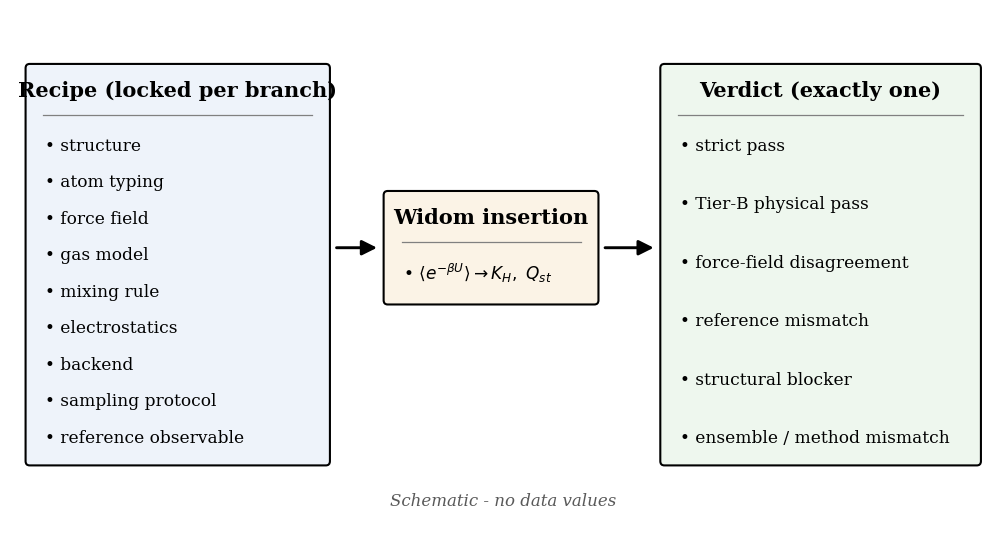
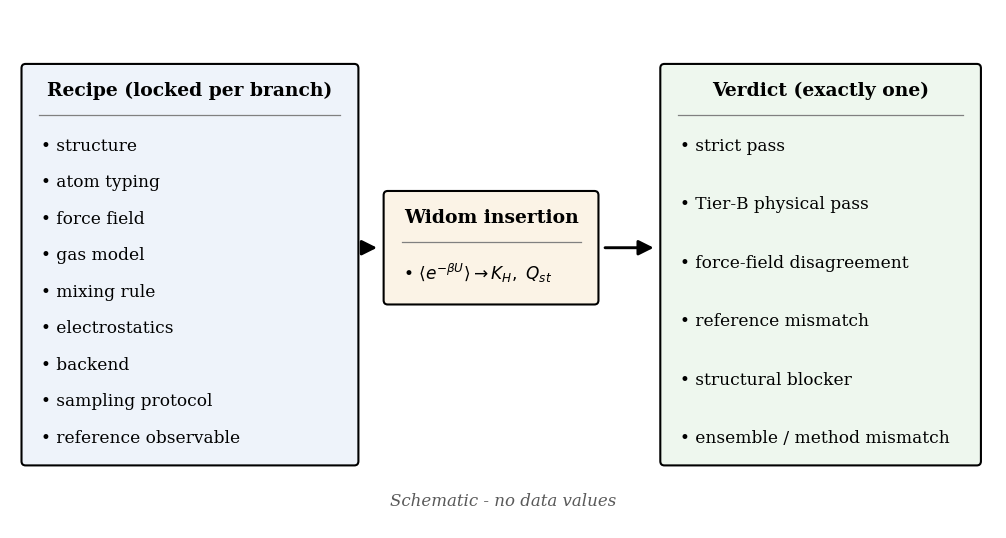
fix: figures no longer split sentences; fix recipe-schematic box overflow

diff --git a/paper/v3_author_written/figures/fig1_recipe_schematic.py b/paper/v3_author_written/figures/fig1_recipe_schematic.py
@@ -31,7 +31,7 @@ def panel(ax, x, y, w, h, title, lines, fc):
                                 boxstyle="round,pad=0.02,rounding_size=0.05",
                                 fc=fc, ec="black", lw=1.0))
     ax.text(x + w / 2, y + h - 0.30, title, ha="center", va="center",
-            fontsize=10, fontweight="bold")
+            fontsize=9, fontweight="bold")
     ax.plot([x + 0.2, x + w - 0.2], [y + h - 0.58, y + h - 0.58],
             color="0.5", lw=0.6)
     top = y + h - 0.95
@@ -48,12 +48,12 @@ def main():
     ax.set_ylim(0, 6)
     ax.axis("off")
 
-    panel(ax, 0.15, 0.7, 3.7, 4.7, "Recipe (locked per branch)", INGREDIENTS, "#eef3fa")
+    panel(ax, 0.1, 0.7, 4.1, 4.7, "Recipe (locked per branch)", INGREDIENTS, "#eef3fa")
     panel(ax, 4.55, 2.6, 2.6, 1.3, "Widom insertion",
           [r"$\langle e^{-\beta U}\rangle \rightarrow K_H,\ Q_{st}$"], "#fbf3e6")
     panel(ax, 7.95, 0.7, 3.9, 4.7, "Verdict (exactly one)", VERDICTS, "#eef7ee")
 
-    ax.add_patch(FancyArrowPatch((3.9, 3.25), (4.5, 3.25), arrowstyle="-|>",
+    ax.add_patch(FancyArrowPatch((4.25, 3.25), (4.5, 3.25), arrowstyle="-|>",
                                  mutation_scale=15, lw=1.4, color="black"))
     ax.add_patch(FancyArrowPatch((7.2, 3.25), (7.9, 3.25), arrowstyle="-|>",
                                  mutation_scale=15, lw=1.4, color="black"))

diff --git a/paper/v3_author_written/sections/09b_v06_kups.tex b/paper/v3_author_written/sections/09b_v06_kups.tex
@@ -105,6 +105,8 @@ tail-implementation difference that account for the kUPS--reference offset.}
 \label{fig:v06-parity}
 \end{figure}
 
+\FloatBarrier
+
 \subsection{Machine-learned potentials as governed recipes}\label{sec:v06-mlip}
 
 Treating an MLIP as one more energy-model recipe, we score Widom insertions of Ar into all-silica CHA
@@ -136,6 +138,8 @@ committed JSON.}
 \label{fig:v06-triptych}
 \end{figure}
 
+\FloatBarrier
+
 A multi-task foundation model sharpens the point that a verdict is only as good as the harness's right to
 issue it. The UMA potential carries several level-of-theory heads; its choice is itself a recipe element.
 Its materials head, used on Ar in silica, is erratic at close contact and is refused. Its direct-air-capture
@@ -159,6 +163,8 @@ Right: the full task-by-system verdict matrix; the model passes where its adsorb
 refused or withheld elsewhere.}
 \label{fig:v06-uma}
 \end{figure}
+
+\FloatBarrier
 
 None of this changes the v0.4 verdict. It extends the same discipline to a second engine and to
 machine-learned energy models, and it adds two recipe elements to the list that must be locked before a

diff --git a/paper/v3_author_written/sections/06_audit_result.tex b/paper/v3_author_written/sections/06_audit_result.tex
@@ -26,6 +26,8 @@ Table~\ref{tab:branch-disposition} gives the branch-level disposition. It should
 \label{fig:disposition}
 \end{figure}
 
+\FloatBarrier
+
 Two of these branches are deliberate controls. Branch 6c is the simplest: all-silica MFI, argon, no charges, no flexible framework mechanism; it is a Tier-A strict pass cross-confirmed by the native estimator and RASPA3 to \(0.5\%\). Branch 4c is more demanding --- Si-CHA + CO\(_2\), Bai 2013 TraPPE-zeo parameters, electrostatics, and an analytical tail correction --- and is a cross-engine-audited charged control: the native estimator and RASPA3 agree to \(\sim\!9\%\) on \(K_H\) and \(\sim\!1\%\) on \(Q_{st}\), and the result sits inside the experimental window. Its strict-versus-Tier-B verdict is itself engine-dependent --- the \(Q_{st}\) deviation sits on the \(\pm2.0\) boundary (native \(+1.99\), inside; RASPA3 \(+2.24\), outside), so the same recipe is nominally strict on one engine and Tier-B on the other. We therefore report it as Tier-B, and note this as a worked example, on a charged system, of the verdict fragility this harness exists to expose.
 
 The other two passes are audit-caught corrections, not controls. Branches 2a (HKUST-1 + CO\(_2\)) and 3a (UiO-66 + CO\(_2\)) were originally locked as a \(>3\sigma\) and a \(2\)--\(3\sigma\) force-field failure and read as ``UFF under-binds the open metal site.'' That reading was an artifact. The originally-locked recipe routed the MOF framework through a generator that hard-coded a zeolite/cation table and unconditionally stamped \texttt{source="UFF"} on framework atoms that were in fact the Harris-Yung CO\(_2\)-carbon (\(\epsilon = 28.1\) K vs genuine UFF \(52.8\)), TraPPE-zeo oxygen (\(53.0\) vs UFF \(30.2\)), and a wrong-\(\epsilon\) hydrogen --- only the metals were genuine UFF. Corrected to genuine UFF, the aromatic-linker dispersion compensates the genuinely weak UFF open-metal site and both MOFs reproduce experiment: 3a near-exactly (\(\Delta\log_{10}K_H = +0.086\), \(\Delta Q_{st} = -0.89\ \mathrm{kJ\,mol^{-1}}\); Tier-A strict), and 2a slightly over (\(K_H\) in the range \(8.3\)--\(10.8\ \mathrm{mol\,kg^{-1}\,bar^{-1}}\), reported as a range because of the open-Cu deep-well sampling tail; \(\Delta Q_{st} = +3.9\ \mathrm{kJ\,mol^{-1}}\); Tier-B). Both are reported from RASPA3 only: the native estimator cannot corroborate them because its charged-Ewald path shows a large, not-yet-root-caused discrepancy against RASPA3 on these MOF cells (Section~\ref{sec:controls}). This is a second worked example of the paper's own thesis --- a generator silently substituting parameters under a false label, caught by the harness --- parallel to the 6c silicon double-count. The originally-locked (buggy) deviations, \(\Delta\log_{10}K_H = -0.759\) (2a) and \(-0.802\) (3a), are retained in the case matrix as the documented superseded case.

diff --git a/paper/v3_author_written/sections/07_failures.tex b/paper/v3_author_written/sections/07_failures.tex
@@ -12,6 +12,8 @@ The failures in Table~\ref{tab:branch-disposition} are not a single scientific e
 \label{fig:taxonomy}
 \end{figure}
 
+\FloatBarrier
+
 The open-metal-site systems give the clearest force-field lesson. Mg-MOF-74 + CO\(_2\) and HKUST-1 + CO\(_2\) contain strongly binding metal environments. In such sites, carbon dioxide does not merely see a generic Lennard-Jones wall. It probes electrostatics, induction, short-range repulsion, dispersion, and local coordination chemistry. A non-polarisable or simplified pairwise force field can be reproducible and still give the wrong adsorption thermodynamics. That is what the atlas records: not that Widom insertion broke, but that the chosen energy model is not transferable enough for the site.
 
 The direction of the error also matters. Some open-metal-site branches over-bind, while simpler UFF-type baselines under-bind. These are not contradictions. They show that different approximate energy models fail in different ways. A fitted cross-pair can put too much attraction into the binding site. A generic baseline can miss the same site. Both can be wrong for physically meaningful reasons. The audit prevents either result from being mistaken for a general statement about the material itself.